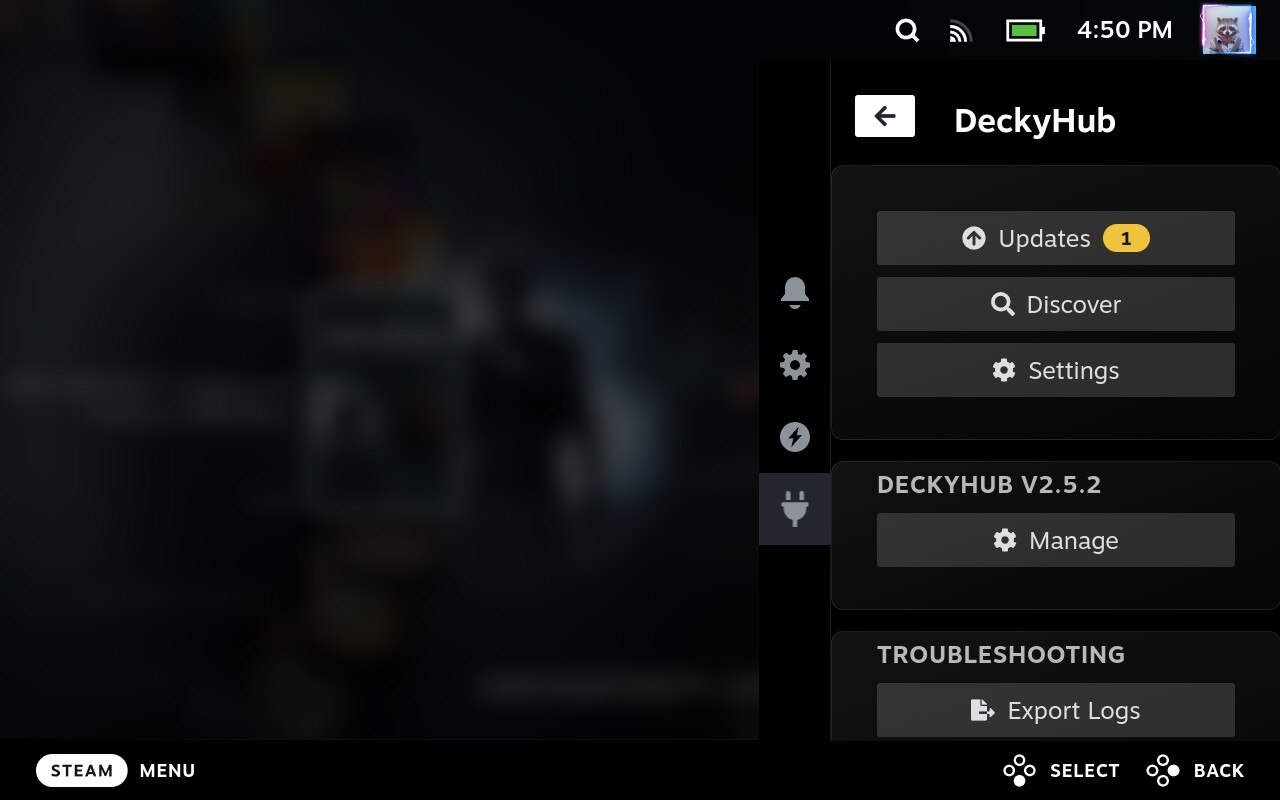
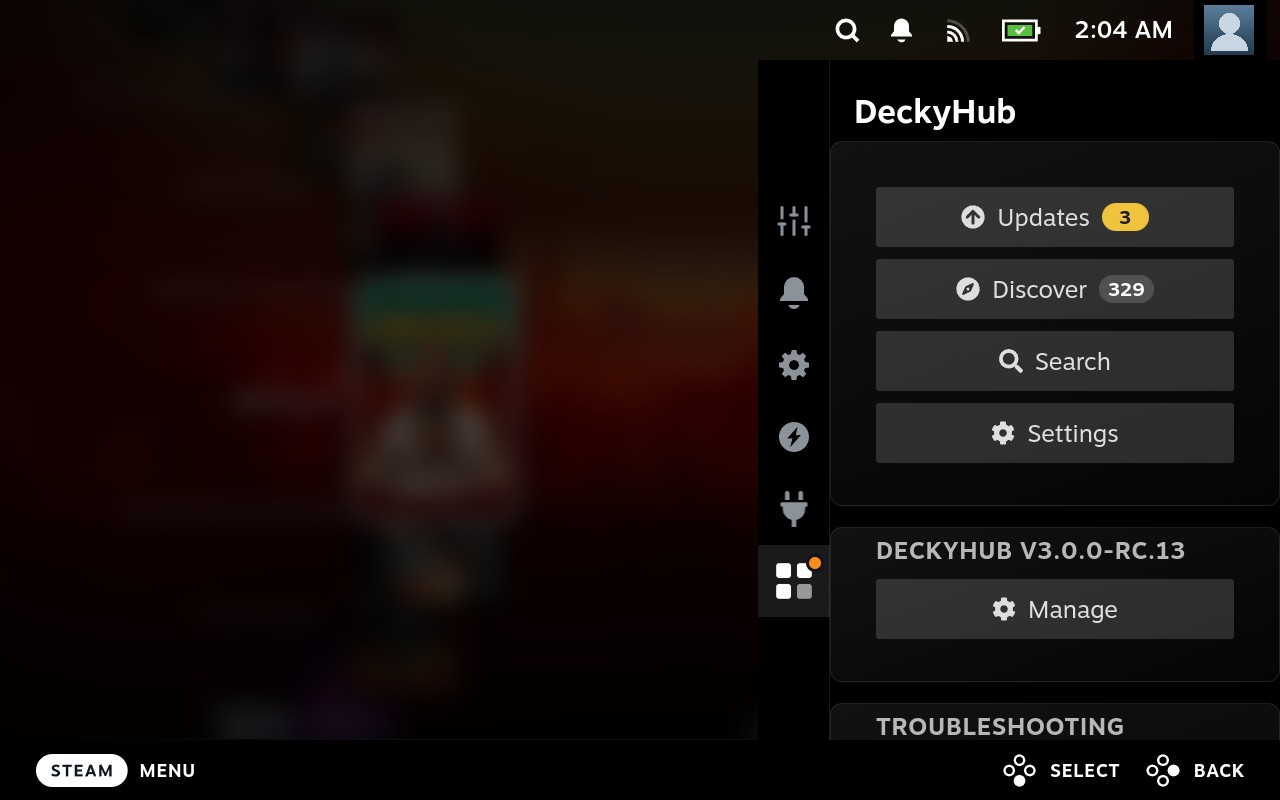
docs: real-Deck screenshots and promo hero; chips show their whole name
- README opens with the promo hero (also the site's link preview) over six
  screenshots captured on a real Deck: Quick Access, Updates, Manage, All
  plugins, Search and Settings.
- Discover's category chips are as wide as their text, so "Frame Generation 13"
  isn't cut to "Frame Gener… 13" on a Deck; the Deck test now checks it.
- deploy.mjs only presses Update in Decky's dialog for its own version (it
  could hit a plugin's Update in an open Manage window), and DECKYHUB_VERSION
  sets the installed version exactly.

diff --git a/src/components/DiscoverHome.tsx b/src/components/DiscoverHome.tsx
@@ -11,7 +11,8 @@ import { keepInView } from "./KeepInView";
 // Discover's home shelves, each the top of the list in one order, with See all for the rest.
 export const SHELVES = [["popular", "downloads"], ["recent", "updated"], ["new", "added"]] as const;
 
-// One line each, all the same height: a long name gets "…", never the count (seen on a Deck).
+// One line each, all the same height, as wide as their text (equal fifths cut
+// "Frame Generation" short on a Deck); "…" only if a row truly can't fit.
 const chipStyle = { ...compactButtonStyle, marginBottom: 0, padding: "4px 8px", borderRadius: 999, display: "flex", justifyContent: "center", gap: "0.3em", whiteSpace: "nowrap" as const };
 // Category chips per row. Rows are explicit, like FocusableGrid's: Steam's D-pad can't move down a wrapped row.
 const CHIPS_PER_ROW = 5;
@@ -22,7 +23,7 @@ export function DiscoverHome({ total, categories, shelf, onBrowse, renderGrid }:
   return (
     <>
       <div className="deckyhub-category-chips">
-        <FocusableGrid items={[["", total] as const, ...categories]} columns={CHIPS_PER_ROW} keyFor={([category]) => category}>
+        <FocusableGrid fit items={[["", total] as const, ...categories]} columns={CHIPS_PER_ROW} keyFor={([category]) => category}>
           {([category, count]) => (
             <Button style={chipStyle} onClick={() => onBrowse(category)}>
               <span style={ellipsis}>{category || t("discover.allPlugins")}</span> <span style={{ opacity: 0.7, flexShrink: 0 }}>{count}</span>

diff --git a/src/components/FocusableGrid.tsx b/src/components/FocusableGrid.tsx
@@ -14,9 +14,12 @@ export function FocusableGrid<T>({
   columns,
   keyFor,
   children,
+  fit,
 }: {
   items: T[];
   columns: number;
+  /** Each item as wide as its content, sharing out the row's spare room (chips), rather than equal columns. */
+  fit?: boolean;
   keyFor: (item: T) => string;
   children: (item: T) => ReactNode;
 }) {
@@ -27,11 +30,11 @@ export function FocusableGrid<T>({
       {rows.map((row, index) => (
         <Focusable key={index} flow-children="right" style={{ display: "flex", gap: gridGap, marginBottom: gridGap }}>
           {row.map((item) => (
-            <Focusable key={keyFor(item)} flow-children="down" onFocus={keepInView} style={{ flex: 1, minWidth: 0 }}>
+            <Focusable key={keyFor(item)} flow-children="down" onFocus={keepInView} style={{ flex: fit ? "1 1 auto" : 1, minWidth: 0 }}>
               {children(item)}
             </Focusable>
           ))}
-          {Array.from({ length: columns - row.length }, (_, index) => (
+          {!fit && Array.from({ length: columns - row.length }, (_, index) => (
             <div aria-hidden key={`empty-${index}`} style={{ flex: 1, minWidth: 0 }} />
           ))}
         </Focusable>

diff --git a/devtools/build-site.py b/devtools/build-site.py
@@ -2,7 +2,7 @@
 
 Copies docs/, writes mazillka/deckyhub-registry's catalog into index.html
 so crawlers see it without JavaScript, and makes WebP screenshots plus a JPEG
-link-preview image from screenshots/. Needs Pillow (CI-only, not a plugin dependency).
+link-preview image (screenshots/hero.jpg) from screenshots/. Needs Pillow (CI-only, not a plugin dependency).
 """
 import json
 import shutil
@@ -37,4 +37,5 @@ for shot in (ROOT / "screenshots").glob("*.jpg"):
     image = Image.open(shot)
     image.save(img / f"{shot.stem}.webp", quality=78, method=6)
     image.resize((640, round(image.height * 640 / image.width)), Image.LANCZOS).save(img / f"{shot.stem}-640.webp", quality=78, method=6)
-shutil.copy(ROOT / "screenshots" / "discover.jpg", img / "og.jpg")
+# The promo hero (16:9) suits link previews better than a bare screenshot.
+shutil.copy(ROOT / "screenshots" / "hero.jpg", img / "og.jpg")

diff --git a/README.md b/README.md
@@ -17,13 +17,18 @@ Find, install and update Decky Loader plugins with your controller — from Deck
 
 [**Download**](https://github.com/mazillka/deckyhub-plugin/releases/latest) · [Website](https://mazillka.github.io/deckyhub-plugin/) · [Plugin catalog](https://mazillka.github.io/deckyhub-registry/) · [Install guide](#installing-deckyhub) · [Report an issue](https://github.com/mazillka/deckyhub-plugin/issues)
 
-<img src="screenshots/discover.jpg" width="800" alt="DeckyHub's Discover screen listing Steam Deck plugins with color-coded status">
+<img src="screenshots/hero.jpg" width="800" alt="DeckyHub: Decky plugins, straight from GitHub. Its Discover screen on a Steam Deck, with plugin categories and the most popular plugins.">
 
 <table>
 <tr>
-<td align="center"><img src="screenshots/menu.jpg" width="260" alt="DeckyHub Menu screen"><br><sub><b>Menu</b></sub></td>
+<td align="center"><img src="screenshots/menu.jpg" width="260" alt="DeckyHub's own tab in the Quick Access menu, with an update dot"><br><sub><b>Quick Access</b></sub></td>
 <td align="center"><img src="screenshots/updates.jpg" width="260" alt="DeckyHub Updates screen"><br><sub><b>Updates</b></sub></td>
 <td align="center"><img src="screenshots/manage.jpg" width="260" alt="DeckyHub Manage screen"><br><sub><b>Manage</b></sub></td>
+</tr>
+<tr>
+<td align="center"><img src="screenshots/all-plugins.jpg" width="260" alt="DeckyHub's All plugins list with search and filters"><br><sub><b>All plugins</b></sub></td>
+<td align="center"><img src="screenshots/search.jpg" width="260" alt="DeckyHub searching GitHub for Decky plugins"><br><sub><b>Search</b></sub></td>
+<td align="center"><img src="screenshots/settings.jpg" width="260" alt="DeckyHub Settings screen"><br><sub><b>Settings</b></sub></td>
 </tr>
 </table>
 
